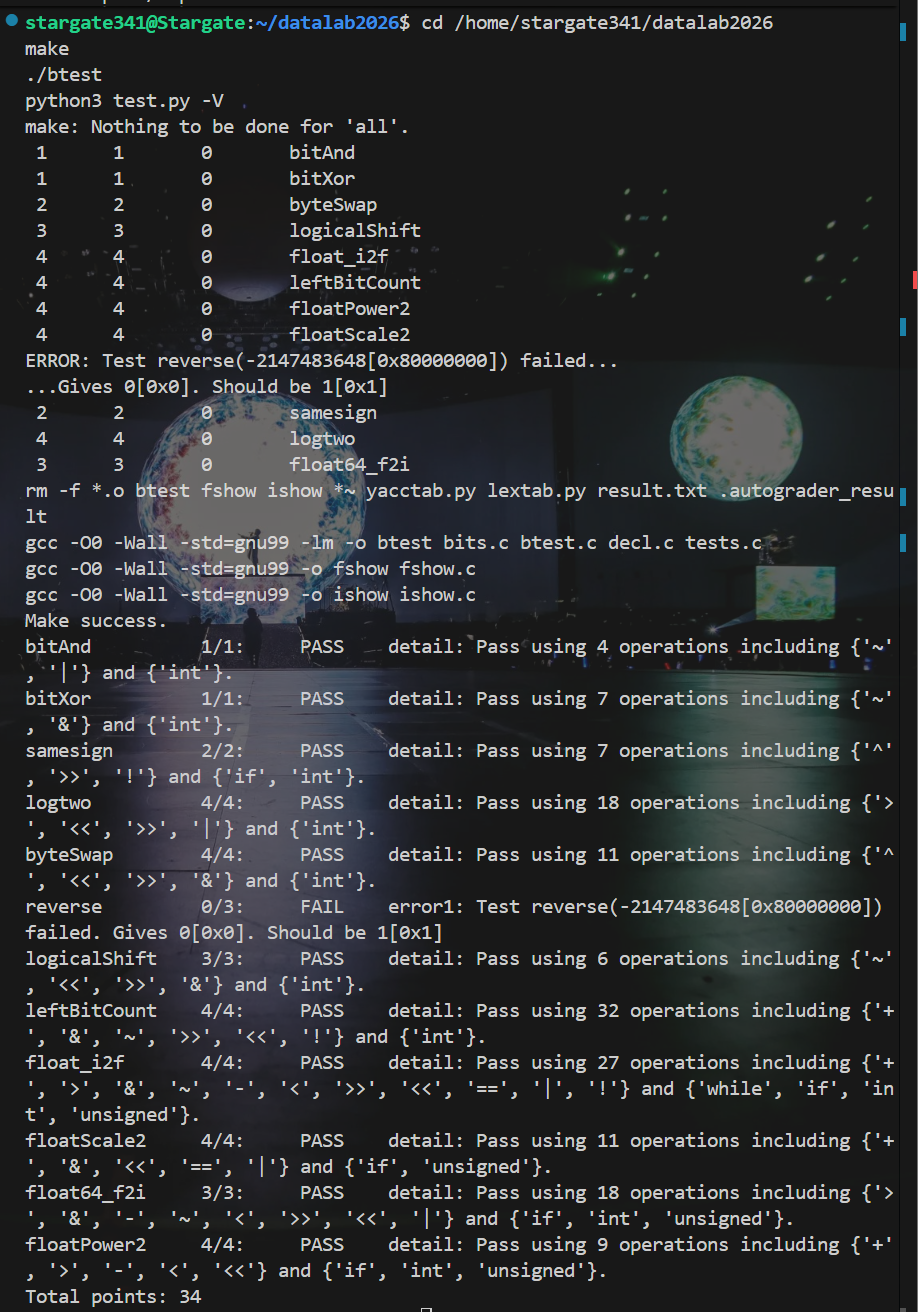
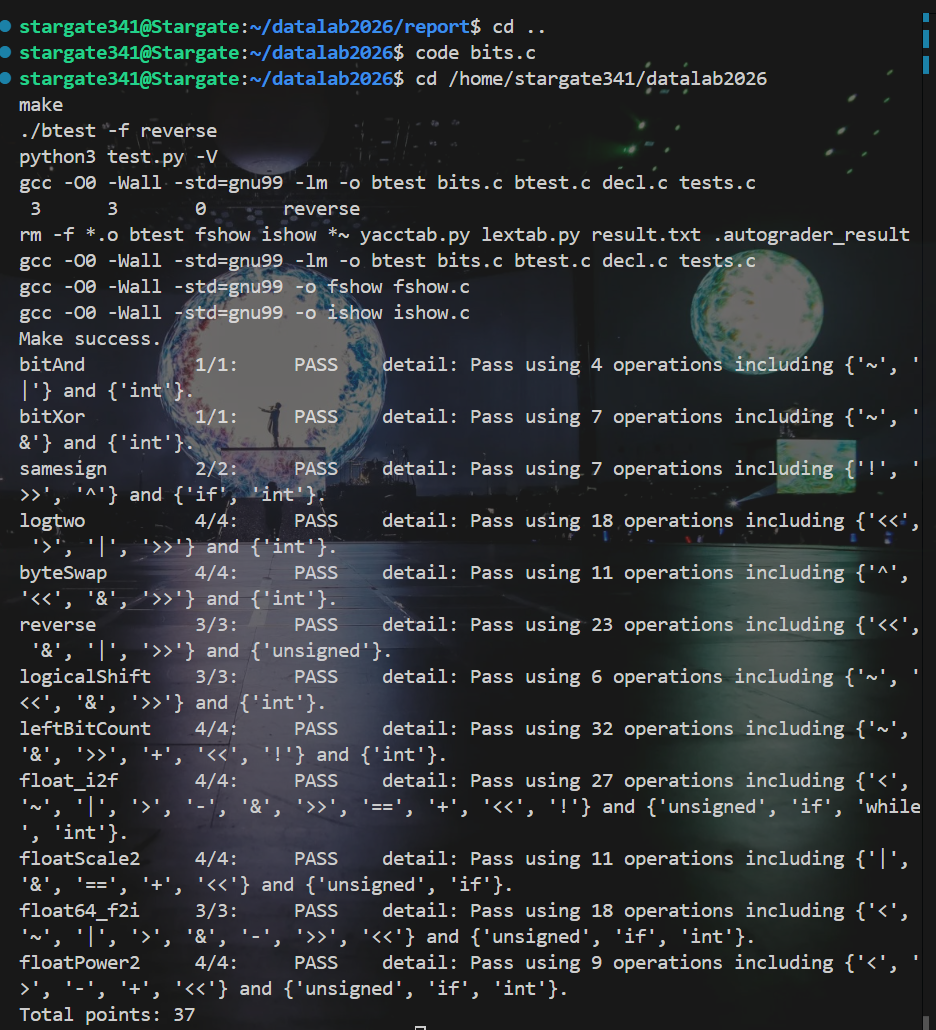
Update DataLab report

diff --git a/report/report.md b/report/report.md
@@ -5,7 +5,7 @@
 
 ## 测试结果
 
-总分：34
+总分：37
 
 ![测试结果](imgs/test.png)
 
